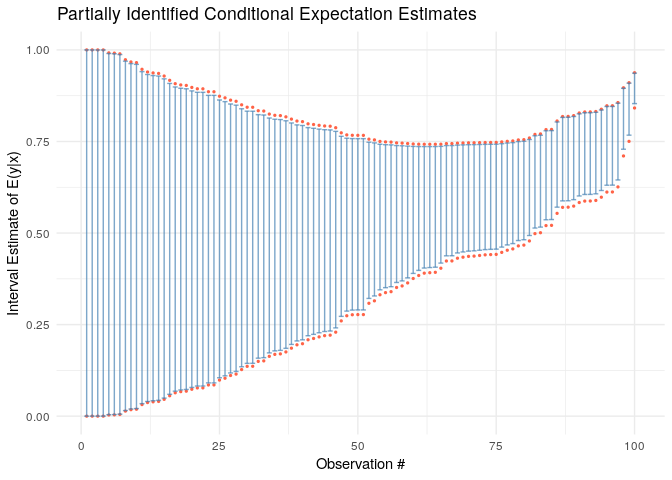
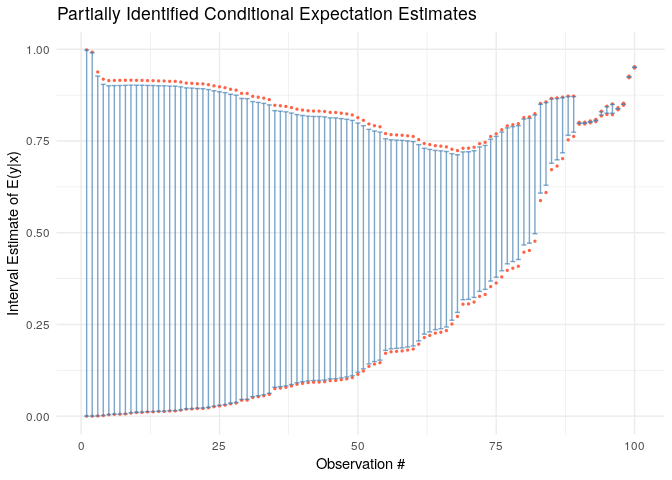
recompiled figure for readme

Changed region(s): [[0.125, 0.0938, 0.9688, 0.875], [0.0312, 0.2812, 0.0938, 0.3125], [0.0312, 0.4688, 0.0625, 0.5]]

diff --git a/README.md b/README.md
@@ -59,7 +59,7 @@ conditional means.
 ``` r
 ## We generate some fake data
 library(rbounds)
-set.seed(42)
+set.seed(1234)
 
 N <- 100
 x <- rnorm(N)
@@ -71,7 +71,7 @@ df <- data.frame(y, x, z)
 res <- pidoutcomes(y~x, z, df)
 res
 #> Av. Lower CI Av. Lower Bound Av. Upper Bound Av. Upper CI
-#>   0.29526        0.30612         0.82252       0.82888
+#>   0.24869        0.25501         0.83033       0.84077
 
 # We can plot it with a generic plotting method
 plot(res)
